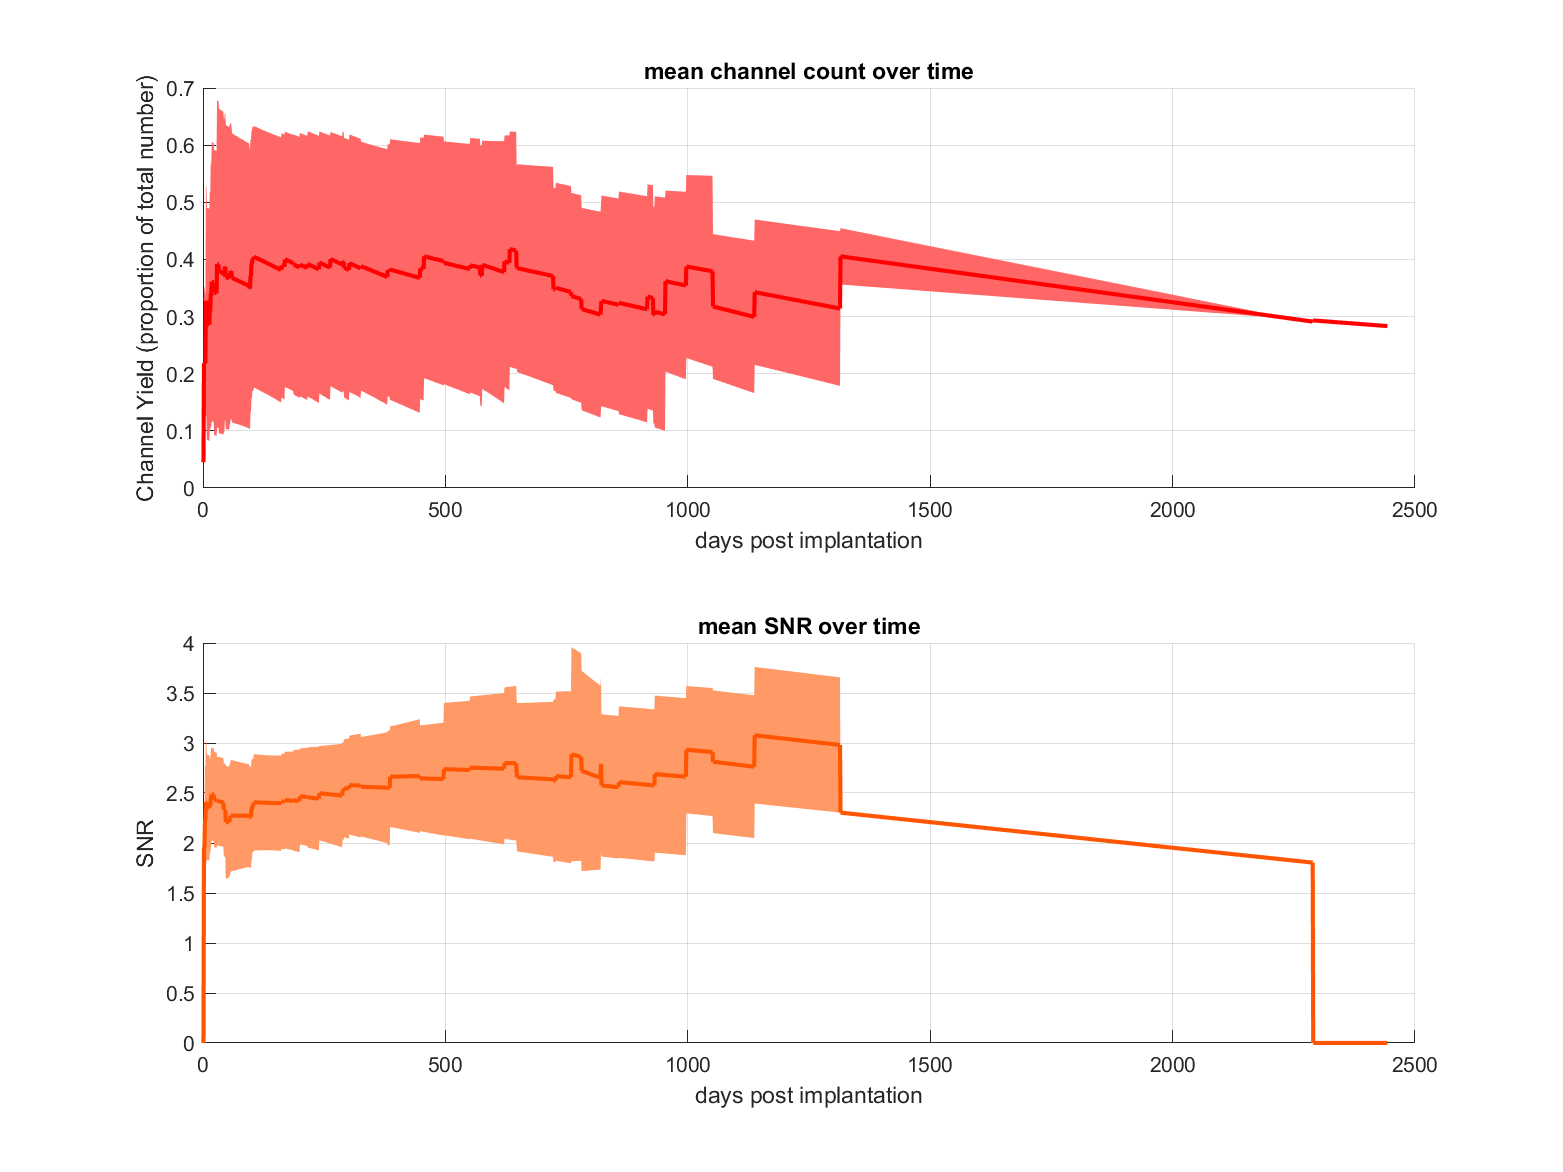
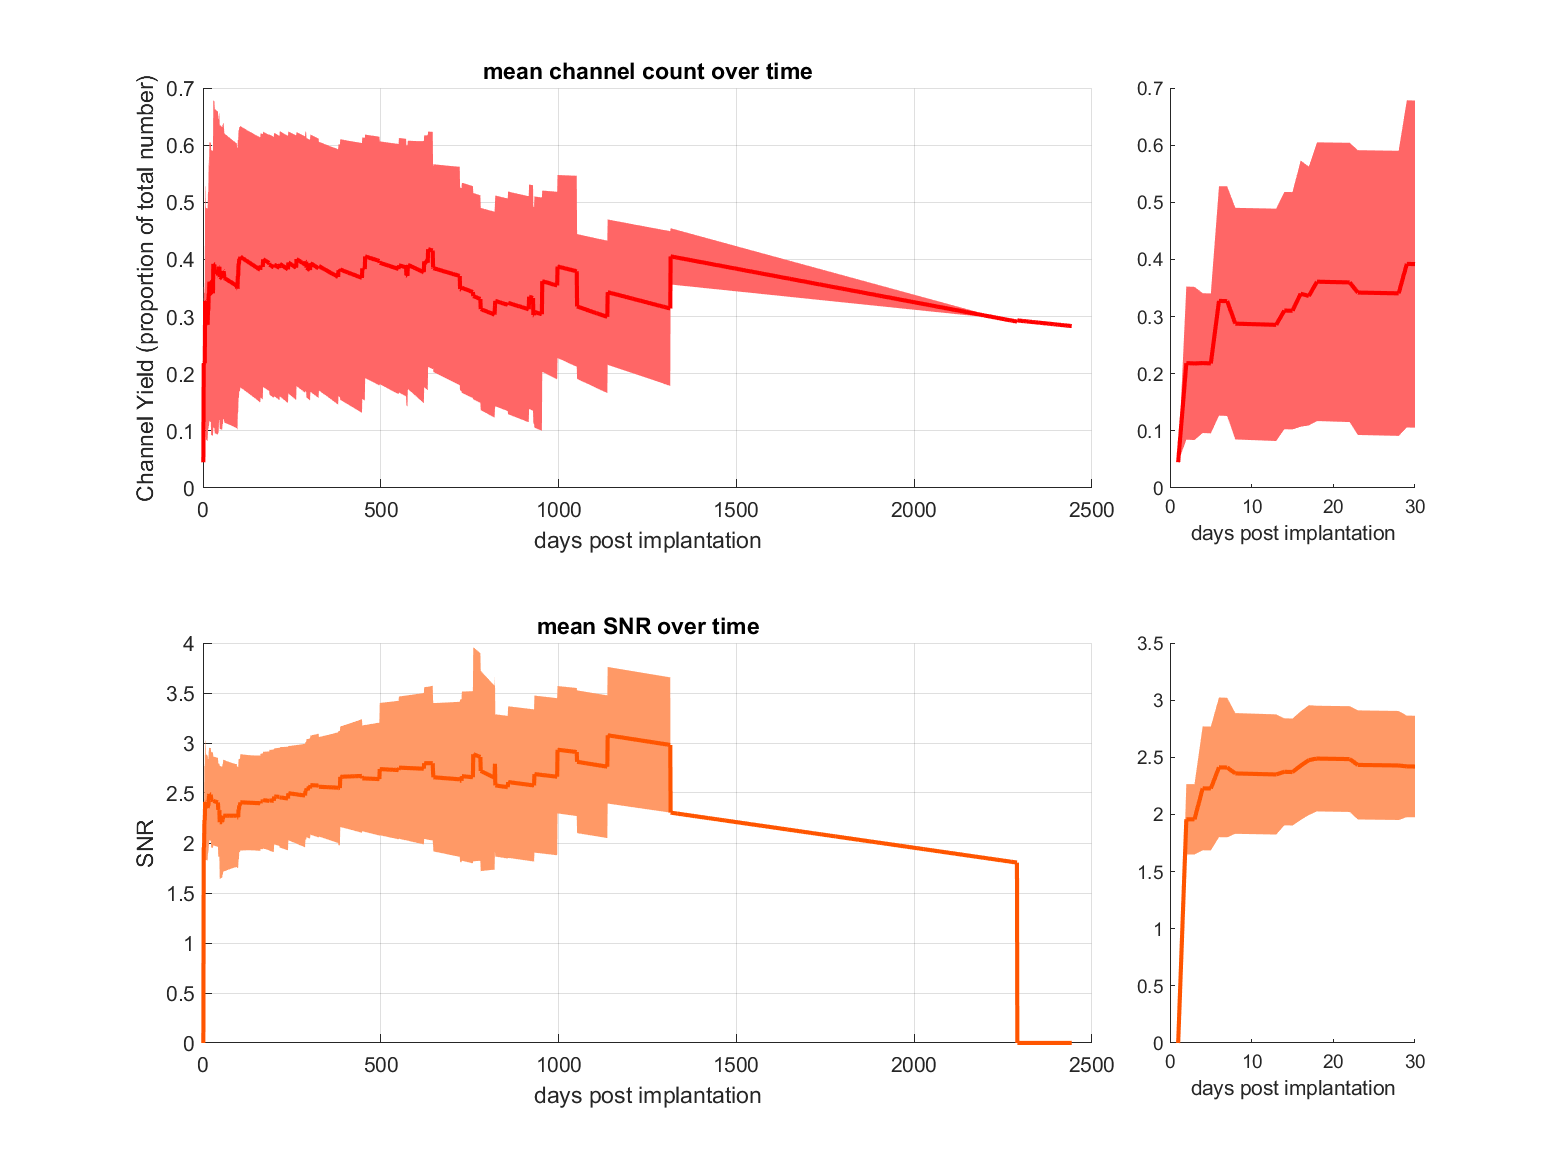
add inset for figure two

diff --git a/code/paper_figures_code/figure_two.m b/code/paper_figures_code/figure_two.m
@@ -46,7 +46,9 @@ avg_channels(isnan(avg_channels)) = 0;
 std_channels = nanstd(averaging_prep,1);
 std_channels(isnan(std_channels)) = 0;
 
-subplot(2,1,1); hold on;
+
+%main plot
+subplot(2,4,1:3); hold on;
 
 HSV_color = rgb2hsv(colors(1,:));
 HSV_color(2) = HSV_color(2) * .6;
@@ -61,6 +63,17 @@ grid on
 xlabel('days post implantation');
 ylabel('Channel Yield (proportion of total number)');
 title('mean channel count over time');
+
+
+%inset plot
+subplot(2,4,4); hold on;
+
+patch([1:length(avg_channels) fliplr(1:length(avg_channels))],[avg_channels+std_channels fliplr(avg_channels-std_channels)],patch_color,'edgecolor','none')
+plot(avg_channels,'linewidth',2,'Color',colors(1,:));
+xlim([0 30])
+
+box off
+xlabel('days post implantation');
 
 clear averaging_prep
 clear HSV_color
@@ -105,7 +118,7 @@ avg_SNR(isnan(avg_SNR)) = 0;
 std_SNR = nanstd(averaging_prep,1);
 std_SNR(isnan(std_SNR)) = 0;
 
-subplot(2,1,2); hold on;
+subplot(2,4,5:7); hold on;
 
 HSV_color = rgb2hsv(colors(2,:));
 HSV_color(2) = HSV_color(2) * .6;
@@ -119,6 +132,17 @@ grid on
 xlabel('days post implantation');
 ylabel('SNR');
 title('mean SNR over time');
+
+
+%inset plot
+subplot(2,4,8); hold on;
+
+patch([1:length(avg_SNR) fliplr(1:length(avg_SNR))],[avg_SNR+std_SNR fliplr(avg_SNR-std_SNR)],patch_color,'edgecolor','none')
+plot(avg_SNR,'linewidth',2,'Color',colors(2,:));
+xlim([0 30])
+
+box off
+xlabel('days post implantation');
 
 clear averaging_prep
 clear HSV_color
